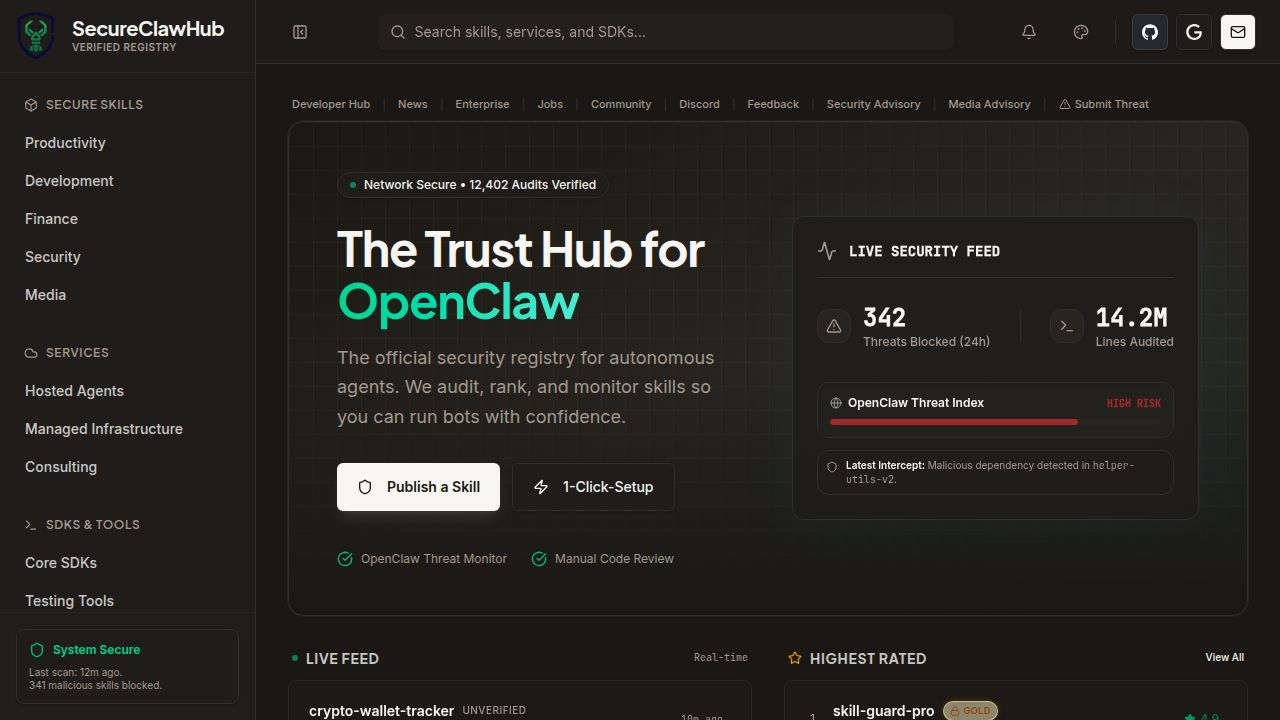
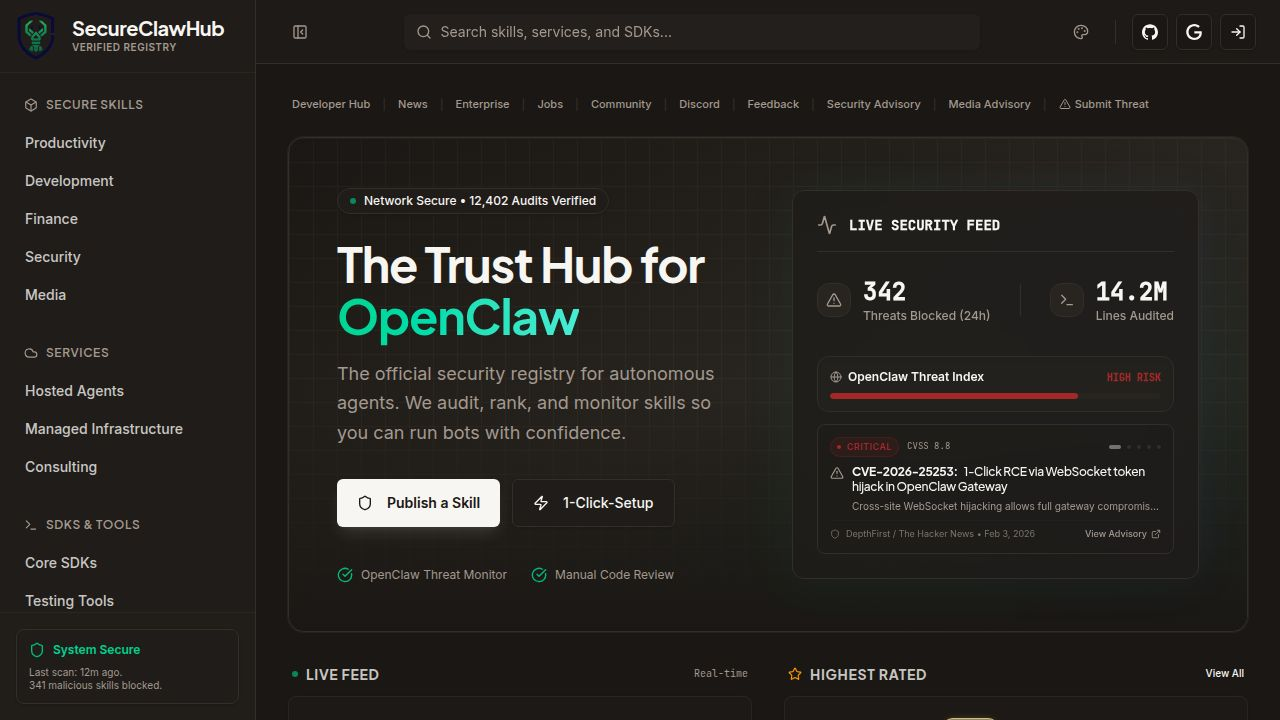
Refine threat ticker appearance and remove high-risk index bar
Adjusted ThreatTicker component styling for cleaner presentation, including link colors and sizing, and removed the "High Risk" Threat Index bar from the home page.

Replit-Commit-Author: Agent
Replit-Commit-Session-Id: 0041754e-a43b-4e2b-b3e2-0354bca99791
Replit-Commit-Checkpoint-Type: full_checkpoint
Replit-Commit-Event-Id: 1f193459-8113-4176-9b06-51b22e298f96
Replit-Commit-Screenshot-Url: https://storage.googleapis.com/screenshot-production-us-central1/12293c62-324d-4eea-8247-47e63ec0668f/0041754e-a43b-4e2b-b3e2-0354bca99791/Aj4V1u0
Replit-Helium-Checkpoint-Created: true

diff --git a/client/src/components/threat-ticker.tsx b/client/src/components/threat-ticker.tsx
@@ -110,22 +110,16 @@ export function ThreatTicker() {
   const threat = THREAT_ALERTS[currentIndex];
 
   return (
-    <div className={cn(
-      "relative rounded-lg border p-4 transition-colors duration-500 overflow-hidden bg-card/50",
-      threat.borderColor
-    )}>
-      {/* Subtle background pulse */}
-      <div className={cn("absolute inset-0 opacity-[0.03] animate-pulse pointer-events-none", threat.color.replace('text-', 'bg-'))} />
-      
+    <div className="relative rounded-lg border border-border bg-card/30 p-3 transition-colors duration-500 overflow-hidden">
       {/* Header */}
-      <div className="flex items-center justify-between mb-3">
+      <div className="flex items-center justify-between mb-2">
         <div className="flex items-center gap-2">
-           <div className={cn("flex items-center gap-1.5 px-2 py-0.5 rounded text-[10px] font-bold uppercase tracking-wider border", threat.bgColor, threat.color, threat.borderColor)}>
-              <div className="w-1.5 h-1.5 rounded-full bg-current animate-pulse" />
+           <div className={cn("flex items-center gap-1.5 px-1.5 py-0.5 rounded text-[9px] font-bold uppercase tracking-wider border", threat.bgColor, threat.color, threat.borderColor)}>
+              <div className="w-1 h-1 rounded-full bg-current" />
               {threat.severity}
            </div>
            {threat.cvss && (
-             <span className="text-[10px] text-muted-foreground font-mono">CVSS {threat.cvss}</span>
+             <span className="text-[9px] text-muted-foreground font-mono">CVSS {threat.cvss}</span>
            )}
         </div>
         
@@ -136,8 +130,8 @@ export function ThreatTicker() {
                 key={i}
                 onClick={() => handleDotClick(i)}
                 className={cn(
-                  "h-1.5 rounded-full transition-all duration-300",
-                  i === currentIndex ? cn("w-4", threat.color.replace('text-', 'bg-')) : "w-1.5 bg-muted-foreground/30 hover:bg-muted-foreground/50"
+                  "h-1 rounded-full transition-all duration-300",
+                  i === currentIndex ? "w-3 bg-foreground/40" : "w-1 bg-border hover:bg-muted-foreground/30"
                 )}
                 aria-label={`View threat ${i + 1}`}
              />
@@ -152,29 +146,29 @@ export function ThreatTicker() {
            isTransitioning ? "opacity-0 translate-y-2" : "opacity-100 translate-y-0"
          )}
       >
-        <div className="flex items-start gap-2 mb-2">
-           <AlertTriangle className={cn("w-4 h-4 shrink-0 mt-0.5", threat.color)} />
+        <div className="flex items-start gap-2 mb-1.5">
+           <AlertTriangle className="w-3.5 h-3.5 shrink-0 mt-0.5 text-muted-foreground" />
            <div>
-             <h4 className="text-xs font-bold text-foreground leading-tight mb-1">
-               <span className={cn("mr-1.5", threat.color)}>{threat.label}:</span>
+             <h4 className="text-xs font-medium text-foreground leading-tight mb-1">
+               <span className="font-bold mr-1.5">{threat.label}:</span>
                {threat.title}
              </h4>
-             <p className="text-[11px] text-muted-foreground leading-relaxed line-clamp-2">
+             <p className="text-[10px] text-muted-foreground leading-relaxed line-clamp-1">
                {threat.detail}
              </p>
            </div>
         </div>
 
-        <div className="flex items-center justify-between pt-2 mt-2 border-t border-border/40">
-           <span className="text-[10px] text-muted-foreground flex items-center gap-1.5">
-             <Shield className="w-3 h-3" />
+        <div className="flex items-center justify-between pt-1.5 mt-1 border-t border-border/30">
+           <span className="text-[9px] text-muted-foreground/70 flex items-center gap-1.5">
+             <Shield className="w-2.5 h-2.5" />
              {threat.source} • {threat.date}
            </span>
            <a 
              href={threat.link}
              target="_blank" 
              rel="noopener noreferrer"
-             className={cn("text-[10px] font-medium flex items-center gap-1 hover:underline", threat.color)}
+             className="text-[9px] font-medium flex items-center gap-1 text-muted-foreground hover:text-foreground transition-colors"
            >
              View Advisory <ExternalLink className="w-2.5 h-2.5" />
            </a>

diff --git a/client/src/pages/home.tsx b/client/src/pages/home.tsx
@@ -220,22 +220,8 @@ export default function Home() {
                         </div>
                      </div>
                      
-                     <div className="space-y-3 pt-3">
-                        <div className="p-3 rounded bg-muted/50 border border-border shadow-inner">
-                            <div className="flex justify-between items-center mb-2">
-                                <span className="text-xs font-bold text-foreground flex items-center gap-1.5">
-                                    <Globe className="w-3 h-3 text-muted-foreground" />
-                                    OpenClaw Threat Index
-                                </span>
-                                <span className="text-[10px] font-mono text-destructive font-bold">HIGH RISK</span>
-                            </div>
-                            <div className="h-1.5 w-full bg-muted rounded-full overflow-hidden">
-                               <div className="h-full w-[75%] bg-destructive rounded-full" />
-                            </div>
-                        </div>
-
+                     <div className="pt-3">
                         <ThreatTicker />
-
                      </div>
                   </div>
                </div>
